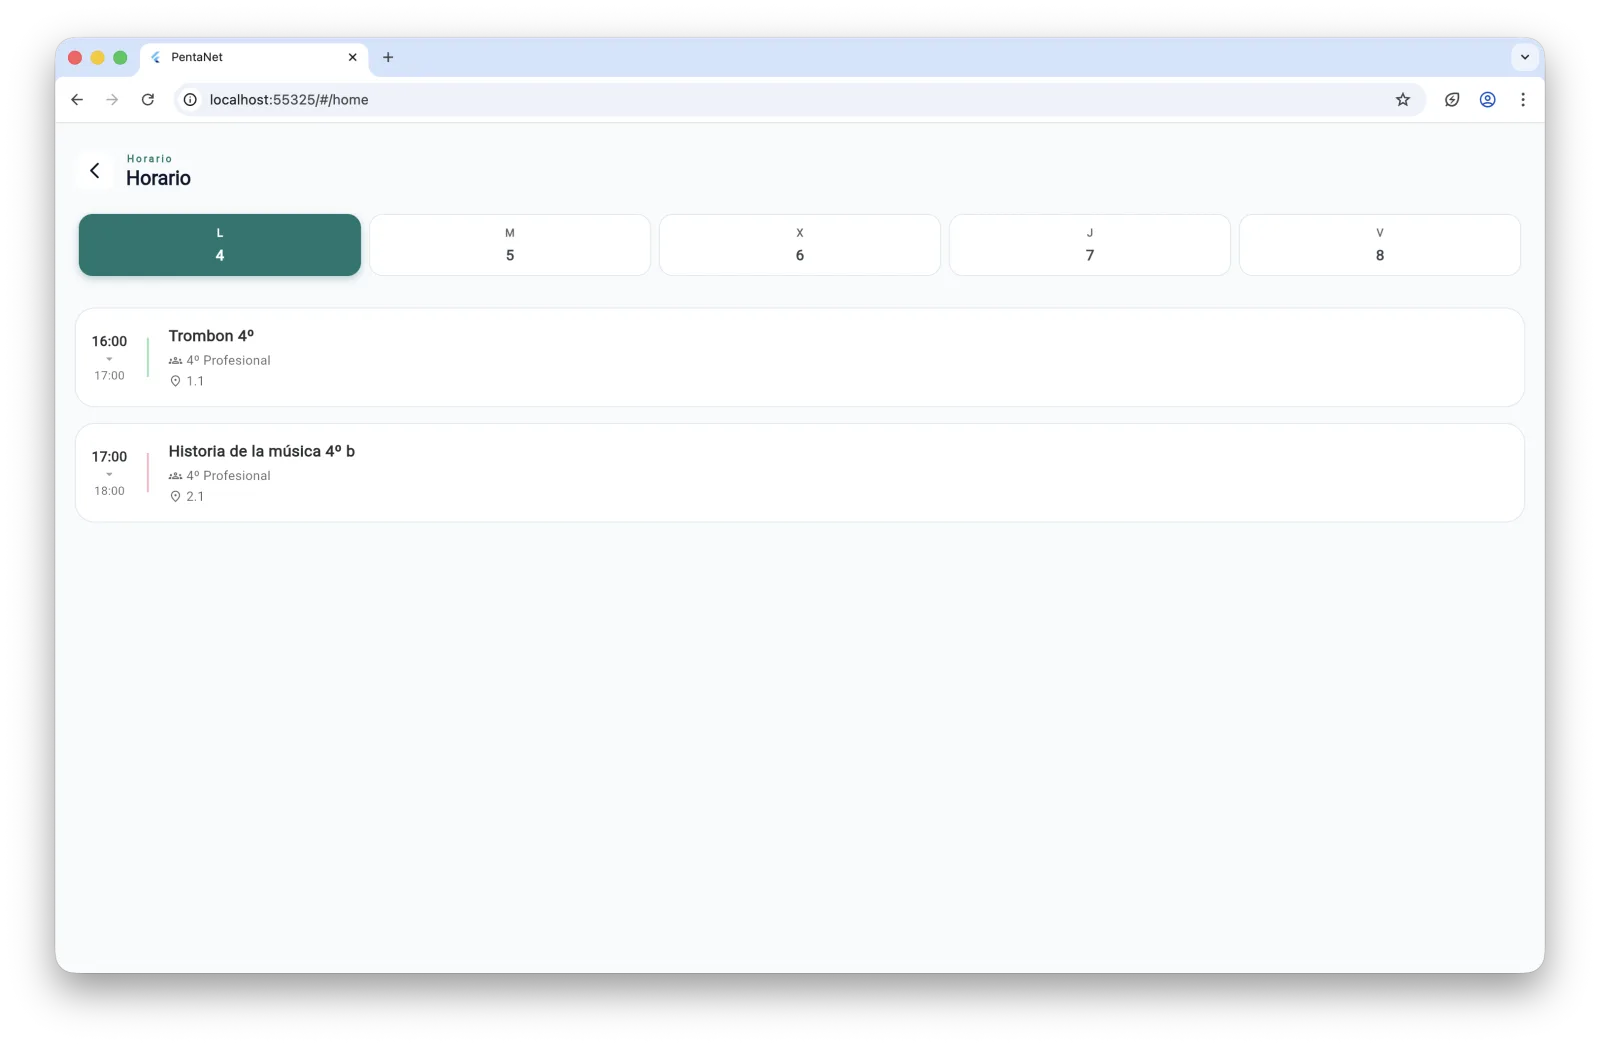
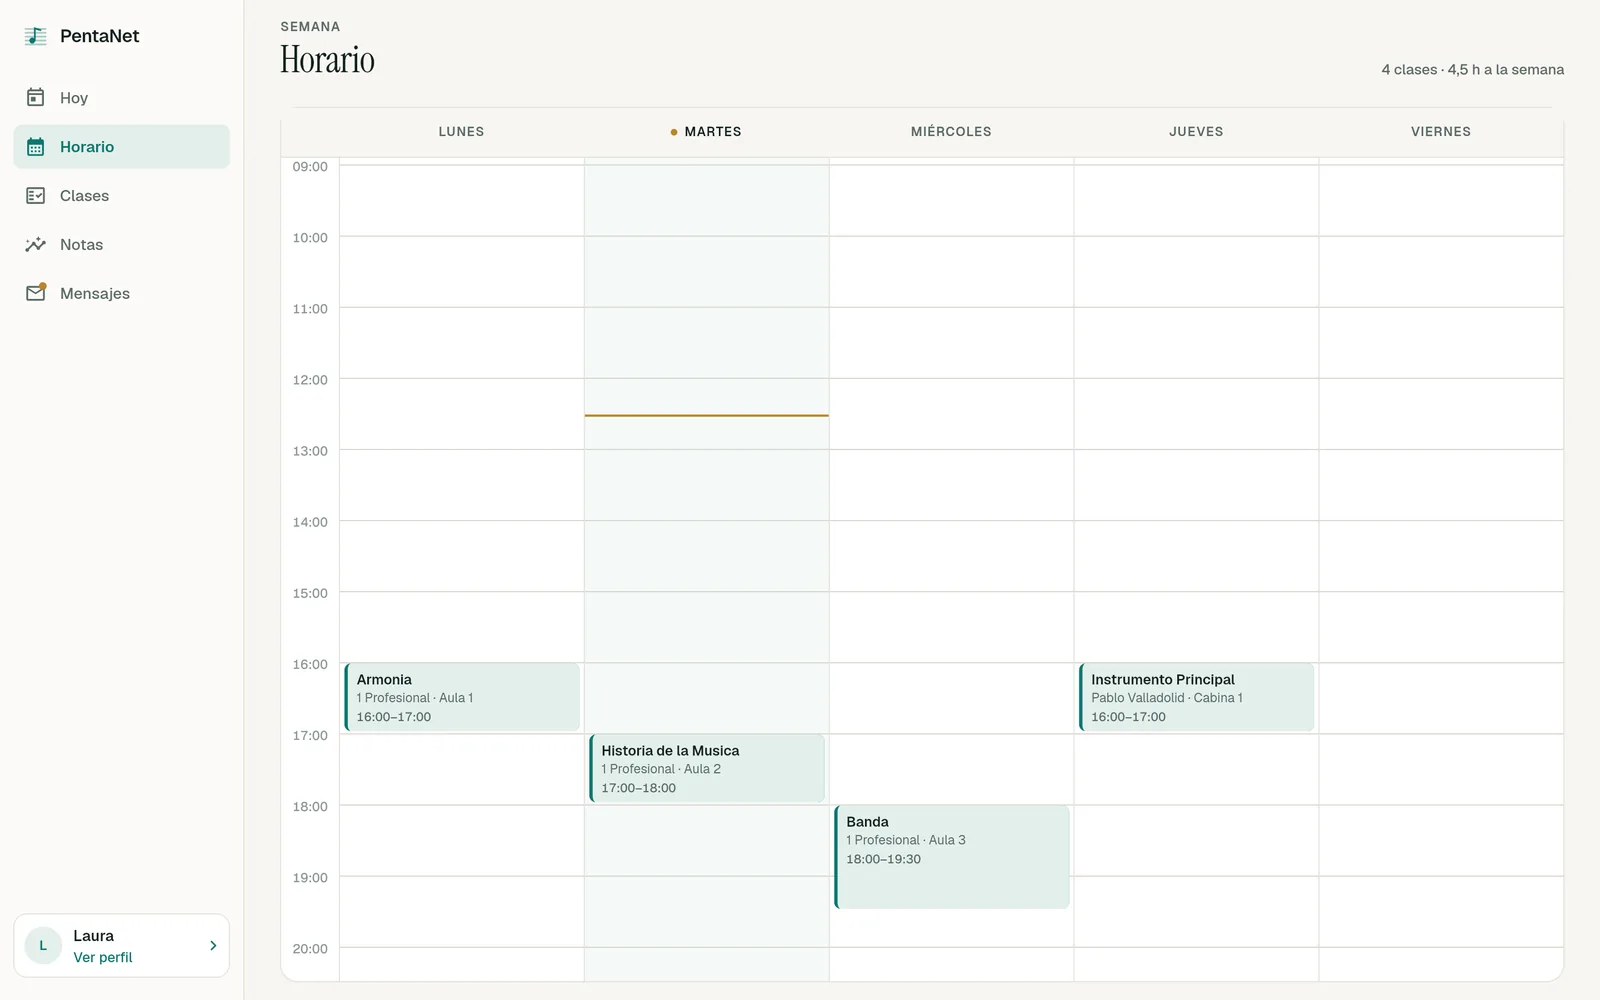
PentaNet: galería con la interfaz nueva y sin mención al código privado
Sustituye las 37 capturas antiguas por 22 de la demo actual, organizadas
por rol (alumnado, profesorado, dirección y conserjería), y quita el
distintivo «Código privado» de la tarjeta y de la página del proyecto.

diff --git a/projects/pentaNet/pentaNet.html b/projects/pentaNet/pentaNet.html
@@ -115,7 +115,6 @@
         </ul>
         <div class="pd-actions">
           <a class="btn-web" href="https://pentanet-demo.vercel.app" target="_blank" rel="noopener noreferrer"><svg viewBox="0 0 24 24" fill="none" stroke="currentColor" stroke-width="2" stroke-linecap="round" stroke-linejoin="round" aria-hidden="true"><path d="M18 13v6a2 2 0 0 1-2 2H5a2 2 0 0 1-2-2V8a2 2 0 0 1 2-2h6"/><polyline points="15 3 21 3 21 9"/><line x1="10" y1="14" x2="21" y2="3"/></svg> Probar la demo</a>
-          <span class="btn-private" title="El código de este proyecto no es público"><svg viewBox="0 0 24 24" fill="none" stroke="currentColor" stroke-width="2" stroke-linecap="round" stroke-linejoin="round" aria-hidden="true"><rect x="3" y="11" width="18" height="11" rx="2"/><path d="M7 11V7a5 5 0 0 1 10 0v4"/></svg> Código privado</span>
         </div>
         <p class="pd-demo-note">Cuatro cuentas de prueba, una por rol, con la contraseña <code>123456</code>: las tienes en <a href="#demo">Probar la demo</a>.</p>
       </div>
@@ -129,7 +128,7 @@
       <div><dt>Rol</dt><dd>Full-stack, en solitario</dd></div>
       <div><dt>Periodo</dt><dd>2024 – 2026</dd></div>
       <div><dt>Plataformas</dt><dd>Web, móvil y tablet</dd></div>
-      <div><dt>Demo</dt><dd>En vivo · código privado</dd></div>
+      <div><dt>Demo</dt><dd>En vivo, con cuentas de prueba</dd></div>
     </dl>
 
     <div class="pd-body">
@@ -258,177 +257,117 @@
 
       <section class="pd-section pd-section--wide" id="galeria" aria-labelledby="galeria-title">
         <h2 id="galeria-title">Galería</h2>
-        <p>Capturas de la app según el rol con el que se inicia sesión. Pulsa una captura para ampliarla.</p>
+        <p>Capturas de la demo según el rol con el que se inicia sesión. Pulsa una captura para ampliarla.</p>
         <div class="pd-tabs" role="tablist" aria-label="Capturas por rol">
-          <button class="pd-tab" role="tab" id="tab-alumno" aria-controls="panel-alumno" aria-selected="true">Alumno</button>
-          <button class="pd-tab" role="tab" id="tab-profesor" aria-controls="panel-profesor" aria-selected="false" tabindex="-1">Profesor</button>
+          <button class="pd-tab" role="tab" id="tab-alumno" aria-controls="panel-alumno" aria-selected="true">Alumnado</button>
+          <button class="pd-tab" role="tab" id="tab-profesor" aria-controls="panel-profesor" aria-selected="false" tabindex="-1">Profesorado</button>
           <button class="pd-tab" role="tab" id="tab-admin" aria-controls="panel-admin" aria-selected="false" tabindex="-1">Dirección</button>
           <button class="pd-tab" role="tab" id="tab-secretaria" aria-controls="panel-secretaria" aria-selected="false" tabindex="-1">Conserjería</button>
         </div>
         <div class="pd-tabpanel" role="tabpanel" id="panel-alumno" aria-labelledby="tab-alumno">
-          <p>Mensajería interna, perfil, horario, asignaturas y faltas, calificaciones, expediente y datos del centro.</p>
+          <p>Resumen del día, horario semanal, notas por asignatura, mensajes con adjuntos y perfil.</p>
           <div class="gallery">
             <figure>
-              <img src="../../assets/img/pentanet/alumno2/home-user.webp" alt="Alumno — Inicio" loading="lazy" width="1600" height="1000">
-              <figcaption>Inicio</figcaption>
+              <img src="../../assets/img/pentanet/alumno/hoy.webp" alt="Alumno — Inicio: tu día" loading="lazy" width="1600" height="1000">
+              <figcaption>Inicio: tu día</figcaption>
             </figure>
             <figure>
-              <img src="../../assets/img/pentanet/alumno2/recibir-mensaje.webp" alt="Alumno — Bandeja de entrada" loading="lazy" width="1600" height="1000">
-              <figcaption>Bandeja de entrada</figcaption>
+              <img src="../../assets/img/pentanet/alumno/horario.webp" alt="Alumno — Horario semanal" loading="lazy" width="1600" height="1000">
+              <figcaption>Horario semanal</figcaption>
             </figure>
             <figure>
-              <img src="../../assets/img/pentanet/alumno2/persona-envio-mensaje.webp" alt="Alumno — Nuevo mensaje" loading="lazy" width="1600" height="1000">
-              <figcaption>Nuevo mensaje</figcaption>
+              <img src="../../assets/img/pentanet/alumno/notas.webp" alt="Alumno — Notas por asignatura" loading="lazy" width="1600" height="1000">
+              <figcaption>Notas por asignatura</figcaption>
             </figure>
             <figure>
-              <img src="../../assets/img/pentanet/alumno2/envio-mensaje.webp" alt="Alumno — Mensajes enviados" loading="lazy" width="1600" height="1000">
-              <figcaption>Mensajes enviados</figcaption>
+              <img src="../../assets/img/pentanet/alumno/mensajes.webp" alt="Alumno — Mensaje con adjunto" loading="lazy" width="1600" height="1000">
+              <figcaption>Mensaje con adjunto</figcaption>
             </figure>
             <figure>
-              <img src="../../assets/img/pentanet/alumno2/perfil-usuario.webp" alt="Alumno — Perfil" loading="lazy" width="1600" height="1000">
-              <figcaption>Perfil</figcaption>
-            </figure>
-            <figure>
-              <img src="../../assets/img/pentanet/alumno2/estado-cabinas.webp" alt="Alumno — Estado de las cabinas" loading="lazy" width="1600" height="1000">
-              <figcaption>Estado de las cabinas</figcaption>
-            </figure>
-            <figure>
-              <img src="../../assets/img/pentanet/alumno2/horario.webp" alt="Alumno — Horario" loading="lazy" width="1600" height="1000">
-              <figcaption>Horario</figcaption>
-            </figure>
-            <figure>
-              <img src="../../assets/img/pentanet/alumno2/asignaturas-faltas.webp" alt="Alumno — Asignaturas y faltas" loading="lazy" width="1600" height="1000">
-              <figcaption>Asignaturas y faltas</figcaption>
-            </figure>
-            <figure>
-              <img src="../../assets/img/pentanet/alumno2/calificaciones.webp" alt="Alumno — Calificaciones" loading="lazy" width="1600" height="1000">
-              <figcaption>Calificaciones</figcaption>
-            </figure>
-            <figure>
-              <img src="../../assets/img/pentanet/alumno2/expediente-notas.webp" alt="Alumno — Expediente y notas" loading="lazy" width="1600" height="1000">
-              <figcaption>Expediente y notas</figcaption>
-            </figure>
-            <figure>
-              <img src="../../assets/img/pentanet/alumno2/centro-usuario.webp" alt="Alumno — Información del centro" loading="lazy" width="1600" height="1000">
-              <figcaption>Información del centro</figcaption>
+              <img src="../../assets/img/pentanet/alumno/perfil.webp" alt="Alumno — Perfil y ajustes" loading="lazy" width="1600" height="1000">
+              <figcaption>Perfil y ajustes</figcaption>
             </figure>
           </div>
         </div>
         <div class="pd-tabpanel" role="tabpanel" id="panel-profesor" aria-labelledby="tab-profesor" hidden>
-          <p>Perfil, horario, asignaturas y alumnos, y registro de notas y faltas.</p>
+          <p>Agenda del día, horario, pase de lista, hoja de notas tipo Excel y mensajería con la clase.</p>
           <div class="gallery">
             <figure>
-              <img src="../../assets/img/pentanet/profesor/home-profe.webp" alt="Profesor — Inicio" loading="lazy" width="1600" height="1000">
-              <figcaption>Inicio</figcaption>
+              <img src="../../assets/img/pentanet/profesor/hoy.webp" alt="Profesora — Inicio: tu día" loading="lazy" width="1600" height="1000">
+              <figcaption>Inicio: tu día</figcaption>
             </figure>
             <figure>
-              <img src="../../assets/img/pentanet/profesor/perfil.webp" alt="Profesor — Perfil" loading="lazy" width="1600" height="1000">
-              <figcaption>Perfil</figcaption>
+              <img src="../../assets/img/pentanet/profesor/horario.webp" alt="Profesora — Horario semanal" loading="lazy" width="1600" height="1000">
+              <figcaption>Horario semanal</figcaption>
             </figure>
             <figure>
-              <img src="../../assets/img/pentanet/profesor/horario.webp" alt="Profesor — Horario" loading="lazy" width="1600" height="1000">
-              <figcaption>Horario</figcaption>
+              <img src="../../assets/img/pentanet/profesor/asistencia.webp" alt="Profesora — Pase de lista" loading="lazy" width="1600" height="1000">
+              <figcaption>Pase de lista</figcaption>
             </figure>
             <figure>
-              <img src="../../assets/img/pentanet/profesor/lista-asign.webp" alt="Profesor — Asignaturas" loading="lazy" width="1600" height="1000">
-              <figcaption>Asignaturas</figcaption>
+              <img src="../../assets/img/pentanet/profesor/notas.webp" alt="Profesora — Hoja de notas tipo Excel" loading="lazy" width="1600" height="1000">
+              <figcaption>Hoja de notas tipo Excel</figcaption>
             </figure>
             <figure>
-              <img src="../../assets/img/pentanet/profesor/lista-user.webp" alt="Profesor — Listado de alumnos" loading="lazy" width="1600" height="1000">
-              <figcaption>Listado de alumnos</figcaption>
+              <img src="../../assets/img/pentanet/profesor/mensajes.webp" alt="Profesora — Bandeja de entrada" loading="lazy" width="1600" height="1000">
+              <figcaption>Bandeja de entrada</figcaption>
             </figure>
             <figure>
-              <img src="../../assets/img/pentanet/profesor/notas-asign.webp" alt="Profesor — Notas por asignatura" loading="lazy" width="1600" height="1000">
-              <figcaption>Notas por asignatura</figcaption>
-            </figure>
-            <figure>
-              <img src="../../assets/img/pentanet/profesor/notas-alum.webp" alt="Profesor — Notas por alumno" loading="lazy" width="1600" height="1000">
-              <figcaption>Notas por alumno</figcaption>
+              <img src="../../assets/img/pentanet/profesor/mensaje-grupal.webp" alt="Profesora — Mensaje a la clase con adjunto" loading="lazy" width="1600" height="1000">
+              <figcaption>Mensaje a la clase con adjunto</figcaption>
             </figure>
           </div>
         </div>
         <div class="pd-tabpanel" role="tabpanel" id="panel-admin" aria-labelledby="tab-admin" hidden>
-          <p>Gestión completa del sistema: centros, usuarios, cursos, asignaturas, aulas y sus relaciones.</p>
+          <p>Panel del centro y gestión de usuarios, aulas, asignaturas y cursos.</p>
           <div class="gallery">
             <figure>
-              <img src="../../assets/img/pentanet/admin/inicio-admin.webp" alt="Dirección — Inicio" loading="lazy" width="1600" height="1000">
-              <figcaption>Inicio</figcaption>
+              <img src="../../assets/img/pentanet/direccion/panel.webp" alt="Dirección — Panel de control" loading="lazy" width="1600" height="1000">
+              <figcaption>Panel de control</figcaption>
             </figure>
             <figure>
-              <img src="../../assets/img/pentanet/admin/centros-admin.webp" alt="Dirección — Centros" loading="lazy" width="1600" height="1000">
-              <figcaption>Centros</figcaption>
-            </figure>
-            <figure>
-              <img src="../../assets/img/pentanet/admin/creacion-centro.webp" alt="Dirección — Crear centro" loading="lazy" width="1600" height="1000">
-              <figcaption>Crear centro</figcaption>
-            </figure>
-            <figure>
-              <img src="../../assets/img/pentanet/admin/listado-users.webp" alt="Dirección — Usuarios" loading="lazy" width="1600" height="1000">
+              <img src="../../assets/img/pentanet/direccion/usuarios.webp" alt="Dirección — Usuarios" loading="lazy" width="1600" height="1000">
               <figcaption>Usuarios</figcaption>
             </figure>
             <figure>
-              <img src="../../assets/img/pentanet/admin/creacion-usuario.webp" alt="Dirección — Crear usuario" loading="lazy" width="1600" height="1000">
-              <figcaption>Crear usuario</figcaption>
+              <img src="../../assets/img/pentanet/direccion/nuevo-usuario.webp" alt="Dirección — Alta de usuario" loading="lazy" width="1600" height="1000">
+              <figcaption>Alta de usuario</figcaption>
             </figure>
             <figure>
-              <img src="../../assets/img/pentanet/admin/aulas-admin.webp" alt="Dirección — Aulas" loading="lazy" width="1600" height="1000">
-              <figcaption>Aulas</figcaption>
+              <img src="../../assets/img/pentanet/direccion/aulas.webp" alt="Dirección — Aulas y cabinas" loading="lazy" width="1600" height="1000">
+              <figcaption>Aulas y cabinas</figcaption>
             </figure>
             <figure>
-              <img src="../../assets/img/pentanet/admin/creacion-aula.webp" alt="Dirección — Crear aula" loading="lazy" width="1600" height="1000">
-              <figcaption>Crear aula</figcaption>
-            </figure>
-            <figure>
-              <img src="../../assets/img/pentanet/admin/asignaturas.webp" alt="Dirección — Asignaturas" loading="lazy" width="1600" height="1000">
+              <img src="../../assets/img/pentanet/direccion/asignaturas.webp" alt="Dirección — Asignaturas" loading="lazy" width="1600" height="1000">
               <figcaption>Asignaturas</figcaption>
             </figure>
             <figure>
-              <img src="../../assets/img/pentanet/admin/asignatura-curso-relacion.webp" alt="Dirección — Relación asignatura-curso" loading="lazy" width="1600" height="1000">
-              <figcaption>Relación asignatura-curso</figcaption>
-            </figure>
-            <figure>
-              <img src="../../assets/img/pentanet/admin/asignatura-alumno-profe.webp" alt="Dirección — Alumnos y profesores por asignatura" loading="lazy" width="1600" height="1000">
-              <figcaption>Alumnos y profesores por asignatura</figcaption>
-            </figure>
-            <figure>
-              <img src="../../assets/img/pentanet/admin/cursos-admin.webp" alt="Dirección — Cursos" loading="lazy" width="1600" height="1000">
+              <img src="../../assets/img/pentanet/direccion/cursos.webp" alt="Dirección — Cursos" loading="lazy" width="1600" height="1000">
               <figcaption>Cursos</figcaption>
             </figure>
             <figure>
-              <img src="../../assets/img/pentanet/admin/user-admin.webp" alt="Dirección — Detalle de usuario" loading="lazy" width="1600" height="1000">
-              <figcaption>Detalle de usuario</figcaption>
-            </figure>
-            <figure>
-              <img src="../../assets/img/pentanet/admin/info-genera.webp" alt="Dirección — Información general" loading="lazy" width="1600" height="1000">
-              <figcaption>Información general</figcaption>
-            </figure>
-            <figure>
-              <img src="../../assets/img/pentanet/admin/info-alumno.webp" alt="Dirección — Ficha de alumno" loading="lazy" width="1600" height="1000">
-              <figcaption>Ficha de alumno</figcaption>
-            </figure>
-            <figure>
-              <img src="../../assets/img/pentanet/admin/info-profe.webp" alt="Dirección — Ficha de profesor" loading="lazy" width="1600" height="1000">
-              <figcaption>Ficha de profesor</figcaption>
+              <img src="../../assets/img/pentanet/direccion/informacion.webp" alt="Dirección — Directorio del centro" loading="lazy" width="1600" height="1000">
+              <figcaption>Directorio del centro</figcaption>
             </figure>
           </div>
         </div>
         <div class="pd-tabpanel" role="tabpanel" id="panel-secretaria" aria-labelledby="tab-secretaria" hidden>
-          <p>Gestión de las cabinas de estudio: ocupación, nuevas reservas, reservas activas e historial.</p>
+          <p>Estado de las cabinas de estudio al momento, nuevas reservas, reservas activas e historial.</p>
           <div class="gallery">
             <figure>
-              <img src="../../assets/img/pentanet/secretaria/estado-cabinas.webp" alt="Conserjería — Estado de las cabinas" loading="lazy" width="1600" height="1000">
+              <img src="../../assets/img/pentanet/conserjeria/cabinas.webp" alt="Conserjería — Estado de las cabinas" loading="lazy" width="1600" height="1000">
               <figcaption>Estado de las cabinas</figcaption>
             </figure>
             <figure>
-              <img src="../../assets/img/pentanet/secretaria/hacer-reserva.webp" alt="Conserjería — Nueva reserva" loading="lazy" width="1600" height="1000">
+              <img src="../../assets/img/pentanet/conserjeria/nueva-reserva.webp" alt="Conserjería — Nueva reserva" loading="lazy" width="1600" height="1000">
               <figcaption>Nueva reserva</figcaption>
             </figure>
             <figure>
-              <img src="../../assets/img/pentanet/secretaria/reservas-activas.webp" alt="Conserjería — Reservas activas" loading="lazy" width="1600" height="1000">
+              <img src="../../assets/img/pentanet/conserjeria/reservas.webp" alt="Conserjería — Reservas activas" loading="lazy" width="1600" height="1000">
               <figcaption>Reservas activas</figcaption>
             </figure>
             <figure>
-              <img src="../../assets/img/pentanet/secretaria/historial-reservas.webp" alt="Conserjería — Historial de reservas" loading="lazy" width="1600" height="1000">
+              <img src="../../assets/img/pentanet/conserjeria/historial.webp" alt="Conserjería — Historial de reservas" loading="lazy" width="1600" height="1000">
               <figcaption>Historial de reservas</figcaption>
             </figure>
           </div>

diff --git a/index.html b/index.html
@@ -309,7 +309,6 @@
               <div class="pj-actions">
                 <a class="btn-web" href="https://pentanet-demo.vercel.app" target="_blank"
                   rel="noopener noreferrer"><svg viewBox="0 0 24 24" fill="none" stroke="currentColor" stroke-width="2" stroke-linecap="round" stroke-linejoin="round" aria-hidden="true"><path d="M18 13v6a2 2 0 0 1-2 2H5a2 2 0 0 1-2-2V8a2 2 0 0 1 2-2h6"/><polyline points="15 3 21 3 21 9"/><line x1="10" y1="14" x2="21" y2="3"/></svg> Probar la demo</a>
-                <span class="btn-private" title="El código de este proyecto no es público"><svg viewBox="0 0 24 24" fill="none" stroke="currentColor" stroke-width="2" stroke-linecap="round" stroke-linejoin="round" aria-hidden="true"><rect x="3" y="11" width="18" height="11" rx="2"/><path d="M7 11V7a5 5 0 0 1 10 0v4"/></svg> Código privado</span>
                 <a class="pj-more" href="projects/pentaNet/pentaNet.html">Ver proyecto <svg viewBox="0 0 24 24" fill="none" stroke="currentColor" stroke-width="2.5" stroke-linecap="round" stroke-linejoin="round" aria-hidden="true"><line x1="5" y1="12" x2="19" y2="12"/><polyline points="12 5 19 12 12 19"/></svg></a>
               </div>
             </div>
